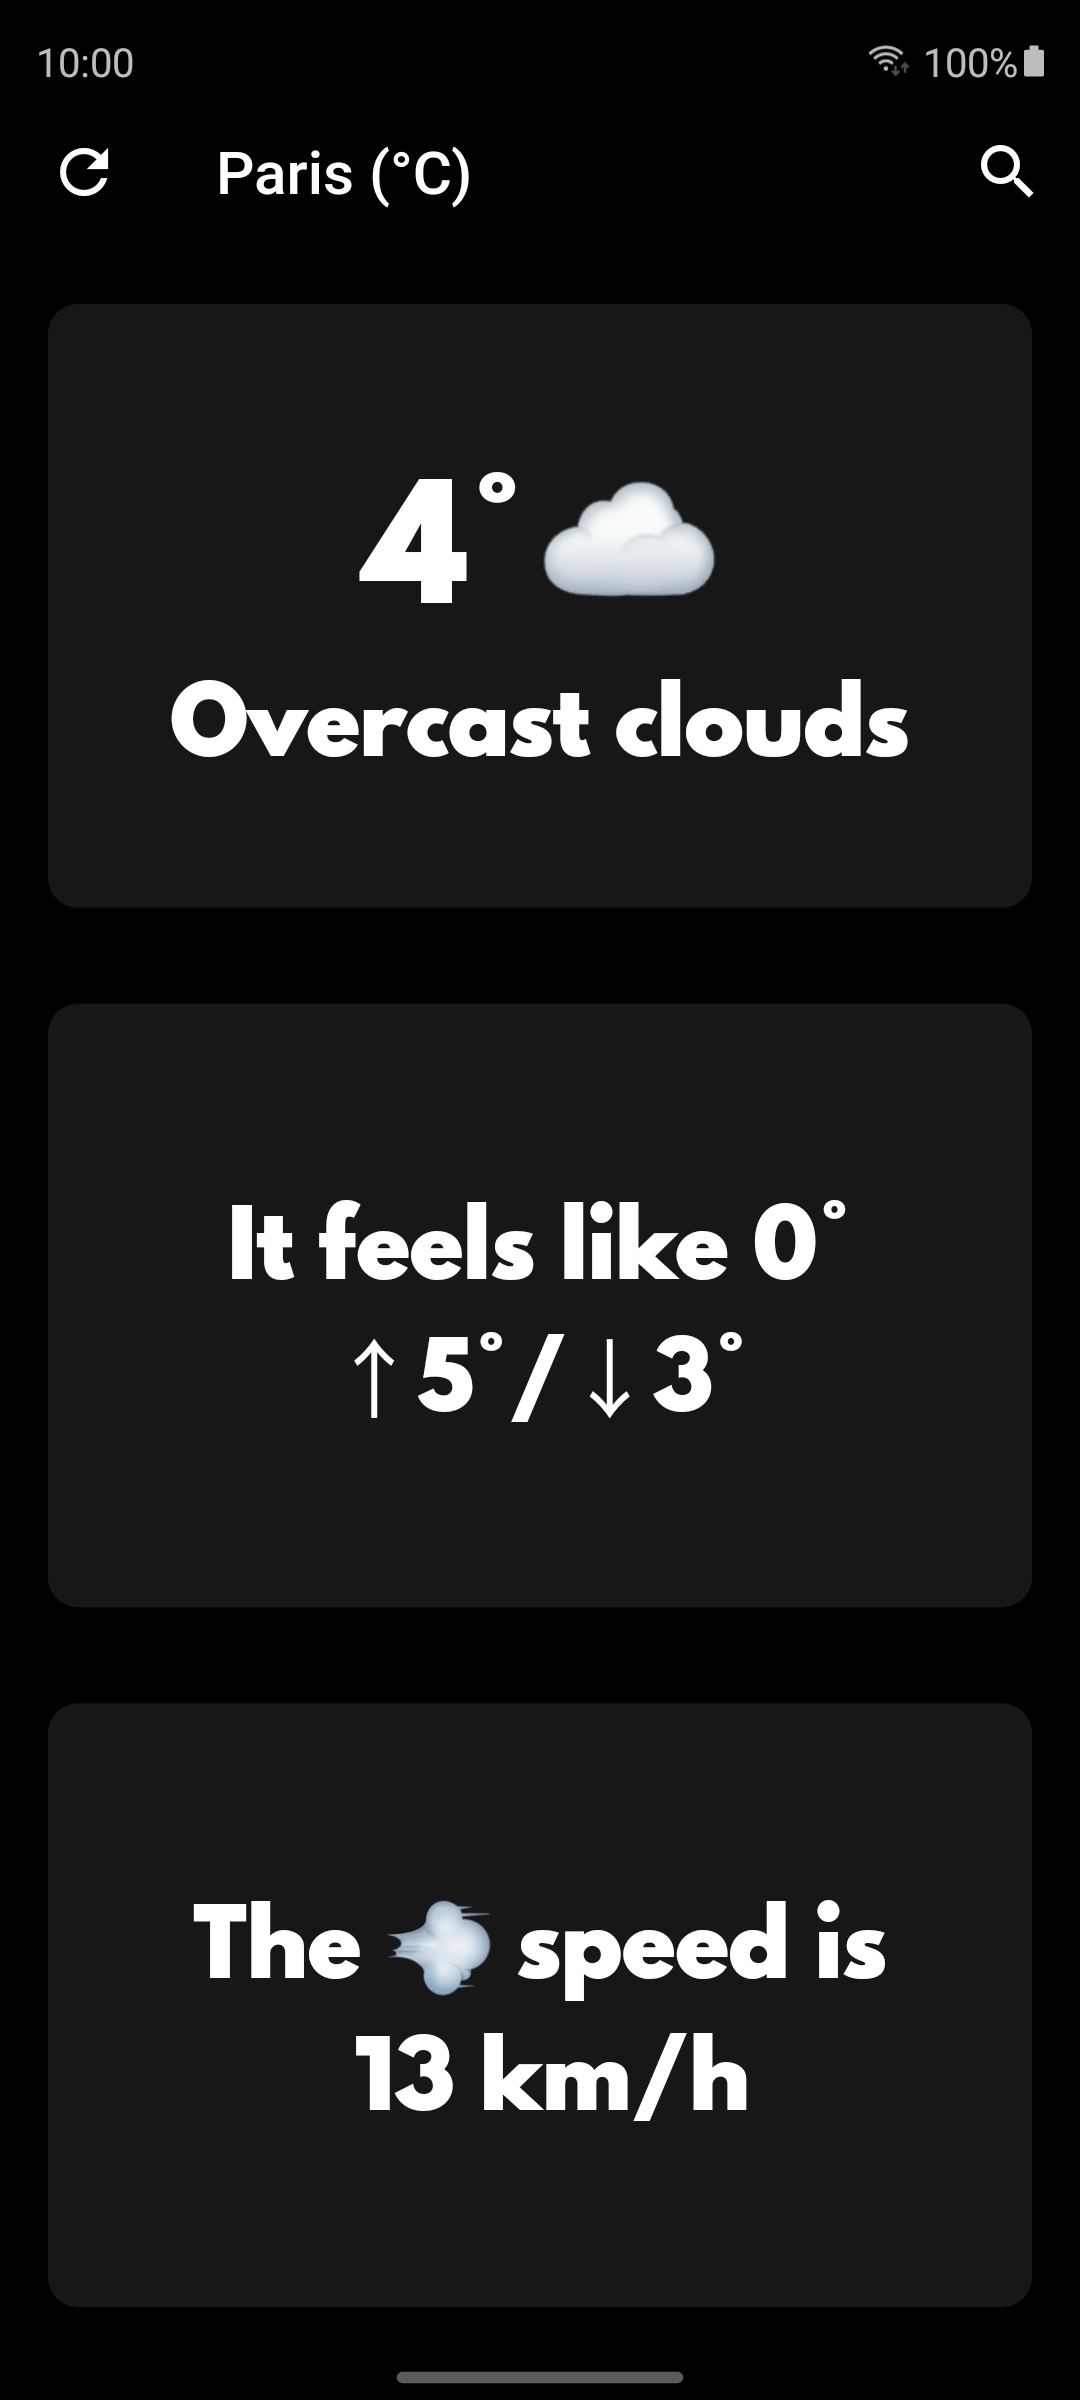
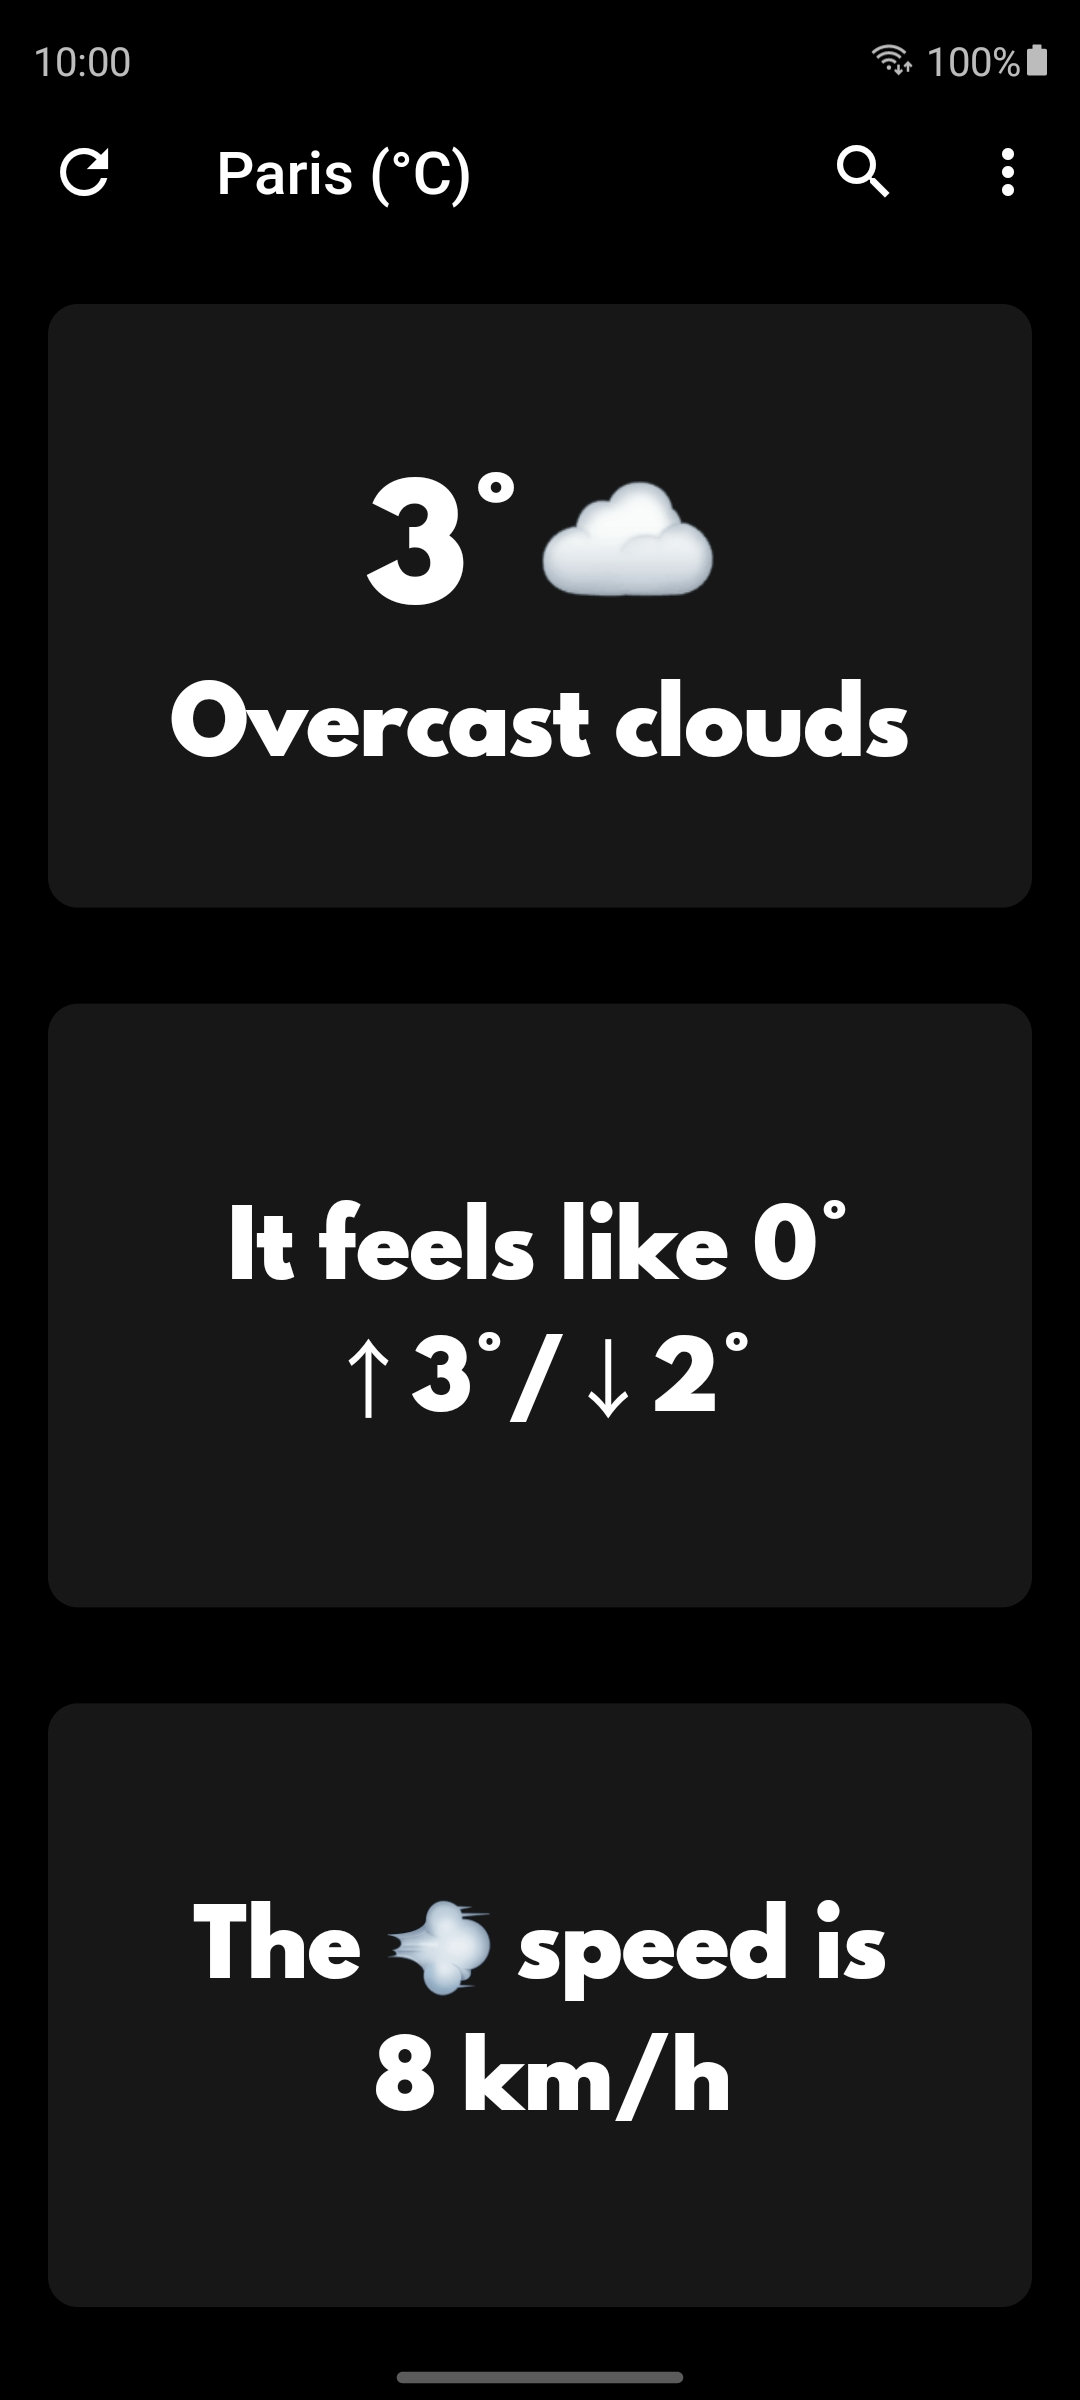
Use GitHub actions for ci (#8)
* Light theme!

* Theme is now persistent

* Theme improvements and code refactoring

* Updated Fastlane

* Use Github actions for CI

diff --git a/lib/screens/location_screen.dart b/lib/screens/location_screen.dart
@@ -1,12 +1,16 @@
 import 'package:auto_size_text/auto_size_text.dart';
+import 'package:clima/main.dart';
 import 'package:clima/services/networking.dart';
 import 'package:clima/services/weather.dart';
 import 'package:clima/utilities/constants.dart';
 import 'package:clima/utilities/reusable_widgets.dart';
 import 'package:flutter/material.dart';
+import 'package:flutter_riverpod/flutter_riverpod.dart';
 import 'package:shared_preferences/shared_preferences.dart';
 
 import 'city_screen.dart';
+
+enum Menu { darkModeOn }
 
 class LocationScreen extends StatefulWidget {
   const LocationScreen({this.locationWeather});
@@ -80,12 +84,16 @@ class _LocationScreenState extends State<LocationScreen> {
 
   @override
   Widget build(BuildContext context) {
+    final _themeState = context.read(themeStateNotifier);
     return Scaffold(
       key: _scaffoldKey,
       appBar: AppBar(
-        backgroundColor: Colors.black,
-        title: Text('$cityName (°C)'),
+        title: Text(
+          '$cityName (°C)',
+          style: Theme.of(context).appBarTheme.textTheme.subtitle1,
+        ),
         leading: IconButton(
+          color: Theme.of(context).appBarTheme.actionsIconTheme.color,
           icon: const Icon(Icons.refresh),
           tooltip: 'Refresh',
           onPressed: () {
@@ -135,10 +143,37 @@ class _LocationScreenState extends State<LocationScreen> {
               }
             },
           ),
+          PopupMenuButton(
+            offset: const Offset(8.0, 8.0),
+            icon: const Icon(Icons.more_vert),
+            tooltip: 'More options',
+            itemBuilder: (BuildContext context) => <PopupMenuEntry<Menu>>[
+              PopupMenuItem<Menu>(
+                value: Menu.darkModeOn,
+                child: StatefulBuilder(
+                    builder: (BuildContext context, StateSetter setState) {
+                  return CheckboxListTile(
+                    checkColor: _themeState.isDarkTheme
+                        ? Colors.grey.shade900
+                        : Colors.white,
+                    title: const Text('Dark theme'),
+                    value: _themeState.isDarkTheme,
+                    onChanged: (bool value) {
+                      setState(() {
+                        value
+                            ? _themeState.setDarkTheme()
+                            : _themeState.setLightTheme();
+                        Navigator.pop(context);
+                      });
+                    },
+                  );
+                }),
+              ),
+            ],
+          ),
         ],
       ),
       body: Container(
-        color: Colors.black,
         constraints: const BoxConstraints.expand(),
         child: SafeArea(
           child: Column(

diff --git a/lib/themes/theme_model.dart b/lib/themes/theme_model.dart
@@ -1,0 +1,86 @@
+import 'package:clima/themes/dark_theme.dart';
+import 'package:flutter/material.dart';
+import 'package:flutter/services.dart';
+import 'package:shared_preferences/shared_preferences.dart';
+
+import 'light_theme.dart';
+
+class ThemeModel extends ChangeNotifier {
+  ThemeModel() {
+    _isDarkTheme = false;
+    _loadFromPrefs();
+  }
+
+  final String key = 'theme';
+  SharedPreferences _prefs;
+  bool _isDarkTheme;
+
+  bool get isDarkTheme => _isDarkTheme;
+
+  ThemeData setTheme() {
+    barsColor();
+    if (_isDarkTheme) {
+      return darkTheme;
+    } else {
+      return lightTheme;
+    }
+  }
+
+  void setLightTheme() {
+    SystemChrome.setSystemUIOverlayStyle(
+      const SystemUiOverlayStyle(
+        systemNavigationBarColor: Color(0xFFF2F2F2),
+        statusBarColor: Color(0xFFF2F2F2),
+      ),
+    );
+    _isDarkTheme = false;
+    _saveToPrefs();
+
+    notifyListeners();
+  }
+
+  void setDarkTheme() {
+    SystemChrome.setSystemUIOverlayStyle(
+      const SystemUiOverlayStyle(
+        systemNavigationBarColor: Colors.black,
+        statusBarColor: Colors.black,
+      ),
+    );
+    _isDarkTheme = true;
+    _saveToPrefs();
+
+    notifyListeners();
+  }
+
+  void barsColor() {
+    if (_isDarkTheme) {
+      SystemChrome.setSystemUIOverlayStyle(const SystemUiOverlayStyle(
+        systemNavigationBarColor: Colors.black,
+        statusBarColor: Colors.black,
+      ));
+    } else {
+      SystemChrome.setSystemUIOverlayStyle(const SystemUiOverlayStyle(
+        systemNavigationBarColor: Color(0xFFF2F2F2),
+        statusBarColor: Color(0xFFF2F2F2),
+      ));
+    }
+  }
+
+  Future<void> _initPrefs() async {
+    _prefs ??= _prefs = await SharedPreferences.getInstance();
+  }
+
+  Future<void> _loadFromPrefs() async {
+    await _initPrefs();
+    _isDarkTheme = _prefs.getBool(key) ?? true;
+    notifyListeners();
+  }
+
+  Future<void> _saveToPrefs() async {
+    await _initPrefs();
+    _prefs.setBool(key, _isDarkTheme);
+  }
+}
+
+// final Brightness brightnessValue = MediaQuery.of(context).platformBrightness;
+// bool isDark = brightnessValue == Brightness.dark;

diff --git a/lib/utilities/reusable_widgets.dart b/lib/utilities/reusable_widgets.dart
@@ -1,4 +1,6 @@
+import 'package:clima/main.dart';
 import 'package:flutter/material.dart';
+import 'package:flutter_riverpod/all.dart';
 
 class ReusableWidgets extends StatelessWidget {
   const ReusableWidgets({this.cardChild});
@@ -7,13 +9,15 @@ class ReusableWidgets extends StatelessWidget {
 
   @override
   Widget build(BuildContext context) {
+    final _themeState = context.read(themeStateNotifier);
     return Expanded(
       child: Container(
         margin: const EdgeInsets.all(16),
         decoration: BoxDecoration(
           borderRadius: BorderRadius.circular(10),
-          color: const Color(0xFF171717),
-          //color: Colors.grey[900],
+          color: _themeState.isDarkTheme
+              ? const Color(0xFF171717)
+              : const Color(0xFFFAFAFA),
         ),
         child: Center(
           child: Padding(
@@ -29,7 +33,6 @@ class ReusableWidgets extends StatelessWidget {
 Future<SnackBar> snackBar(
     {String text, SnackBarAction action, int duration = 2}) async {
   return SnackBar(
-    backgroundColor: const Color(0xFFE6E6E6),
     behavior: SnackBarBehavior.floating,
     duration: Duration(seconds: duration),
     content: Text(text),

diff --git a/lib/themes/dark_theme.dart b/lib/themes/dark_theme.dart
@@ -1,0 +1,31 @@
+import 'package:flutter/material.dart';
+import 'package:flutter/services.dart';
+
+ThemeData darkTheme = ThemeData.dark().copyWith(
+  snackBarTheme: const SnackBarThemeData(backgroundColor: Color(0xFFE6E6E6)),
+  inputDecorationTheme: const InputDecorationTheme(
+    fillColor: Color(0xFF171717),
+    border: OutlineInputBorder(
+      borderRadius: BorderRadius.all(
+        Radius.circular(8.0),
+      ),
+      borderSide: BorderSide(color: Colors.grey),
+    ),
+  ),
+  floatingActionButtonTheme: const FloatingActionButtonThemeData(
+    backgroundColor: Color(0xFF80D8FE),
+  ),
+  popupMenuTheme: const PopupMenuThemeData(color: Color(0xFF2C2C2C)),
+  dialogBackgroundColor: const Color(0xFF202125),
+  toggleableActiveColor: const Color(0xFF80D8FE),
+  accentColor: const Color(0xFF80D8FE),
+  primaryColor: Colors.black,
+  scaffoldBackgroundColor: Colors.black,
+  appBarTheme: const AppBarTheme(
+    iconTheme: IconThemeData(color: Colors.white),
+    textTheme: TextTheme(subtitle1: TextStyle(color: Colors.white)),
+    actionsIconTheme: IconThemeData(color: Colors.white),
+    color: Colors.black,
+    brightness: Brightness.dark,
+  ),
+);

diff --git a/lib/screens/city_screen.dart b/lib/screens/city_screen.dart
@@ -13,11 +13,8 @@ class _CityScreenState extends State<CityScreen> {
   @override
   Widget build(BuildContext context) {
     return Scaffold(
-      appBar: AppBar(
-        backgroundColor: Colors.black,
-      ),
+      appBar: AppBar(),
       body: Container(
-        color: Colors.black,
         constraints: const BoxConstraints.expand(),
         child: SafeArea(
           child: Column(
@@ -32,8 +29,13 @@ class _CityScreenState extends State<CityScreen> {
                     focusNode.unfocus();
                     Navigator.pop(context, cityName);
                   },
-                  style: const TextStyle(color: Colors.white),
-                  decoration: kTextFieldInputDecoration,
+                  style: Theme.of(context).appBarTheme.textTheme.subtitle1,
+                  decoration: const InputDecoration(
+                    filled: true,
+                    icon: Icon(Icons.location_city),
+                    hintText: 'Enter city name',
+                    hintStyle: TextStyle(),
+                  ),
                   onChanged: (String value) {
                     cityName = value;
                   },

diff --git a/lib/main.dart b/lib/main.dart
@@ -1,19 +1,27 @@
 import 'package:clima/screens/loading_screen.dart';
 import 'package:flutter/material.dart';
-import 'package:flutter/services.dart';
+import 'package:flutter_riverpod/flutter_riverpod.dart';
 
-void main() => runApp(MyApp());
+import 'themes/theme_model.dart';
 
-class MyApp extends StatelessWidget {
+final themeStateNotifier = ChangeNotifierProvider((ref) => ThemeModel());
+
+void main() {
+  runApp(
+    ProviderScope(
+      child: MyApp(),
+    ),
+  );
+}
+
+class MyApp extends ConsumerWidget {
   @override
-  Widget build(BuildContext context) {
-    SystemChrome.setSystemUIOverlayStyle(
-      const SystemUiOverlayStyle(systemNavigationBarColor: Colors.black),
-    );
+  Widget build(BuildContext context, ScopedReader watch) {
+    final _themeState = watch(themeStateNotifier);
+
     return MaterialApp(
-      theme: ThemeData.dark().copyWith(
-        accentColor: Colors.blue[500],
-      ),
+      debugShowCheckedModeBanner: false,
+      theme: _themeState.setTheme(),
       home: LoadingScreen(),
     );
   }

diff --git a/lib/screens/loading_screen.dart b/lib/screens/loading_screen.dart
@@ -1,10 +1,12 @@
 import 'dart:math';
 
+import 'package:clima/main.dart';
 import 'package:clima/screens/location_screen.dart';
 import 'package:clima/services/networking.dart';
 import 'package:clima/services/weather.dart';
 import 'package:clima/utilities/reusable_widgets.dart';
 import 'package:flutter/material.dart';
+import 'package:flutter_riverpod/all.dart';
 import 'package:flutter_spinkit/flutter_spinkit.dart';
 import 'package:shared_preferences/shared_preferences.dart';
 
@@ -101,12 +103,13 @@ class _LoadingScreenState extends State<LoadingScreen> {
 
   @override
   Widget build(BuildContext context) {
+    final _themeState = context.read(themeStateNotifier);
     return Scaffold(
       key: _scaffoldKey,
-      backgroundColor: Colors.black,
+      backgroundColor: Theme.of(context).scaffoldBackgroundColor,
       body: Center(
         child: SpinKitDoubleBounce(
-          color: Colors.white,
+          color: _themeState.isDarkTheme ? Colors.white : Colors.black,
           size: 100.0,
         ),
       ),

diff --git a/lib/themes/light_theme.dart b/lib/themes/light_theme.dart
@@ -1,0 +1,25 @@
+import 'package:flutter/material.dart';
+import 'package:flutter/services.dart';
+
+ThemeData lightTheme = ThemeData.light().copyWith(
+  snackBarTheme: const SnackBarThemeData(backgroundColor: Color(0xFF6F6F6F)),
+  inputDecorationTheme: const InputDecorationTheme(
+    fillColor: Color(0xFFFAFAFA),
+    border: OutlineInputBorder(
+      borderRadius: BorderRadius.all(
+        Radius.circular(8.0),
+      ),
+      borderSide: BorderSide(color: Colors.grey),
+    ),
+  ),
+  toggleableActiveColor: ThemeData.light().accentColor,
+  scaffoldBackgroundColor: const Color(0xFFF2F2F2),
+  appBarTheme: AppBarTheme(
+    elevation: 0.0,
+    textTheme: TextTheme(subtitle1: TextStyle(color: Colors.grey.shade900)),
+    color: const Color(0xFFF2F2F2),
+    actionsIconTheme: IconThemeData(color: Colors.grey.shade900),
+    iconTheme: IconThemeData(color: Colors.grey.shade900),
+    brightness: Brightness.light,
+  ),
+);

diff --git a/lib/utilities/constants.dart b/lib/utilities/constants.dart
@@ -18,22 +18,3 @@ const TextStyle kButtonTextStyle = TextStyle(
 const TextStyle kConditionTextStyle = TextStyle(
   fontSize: 50.0,
 );
-
-InputDecoration kTextFieldInputDecoration = const InputDecoration(
-  filled: true,
-  fillColor: Color(0xFF171717),
-  icon: Icon(
-    Icons.location_city,
-    color: Colors.white,
-  ),
-  hintText: 'Enter city name',
-  hintStyle: TextStyle(
-    color: Colors.grey,
-  ),
-  border: OutlineInputBorder(
-    borderRadius: BorderRadius.all(
-      Radius.circular(8.0),
-    ),
-    borderSide: BorderSide(color: Colors.grey),
-  ),
-);
